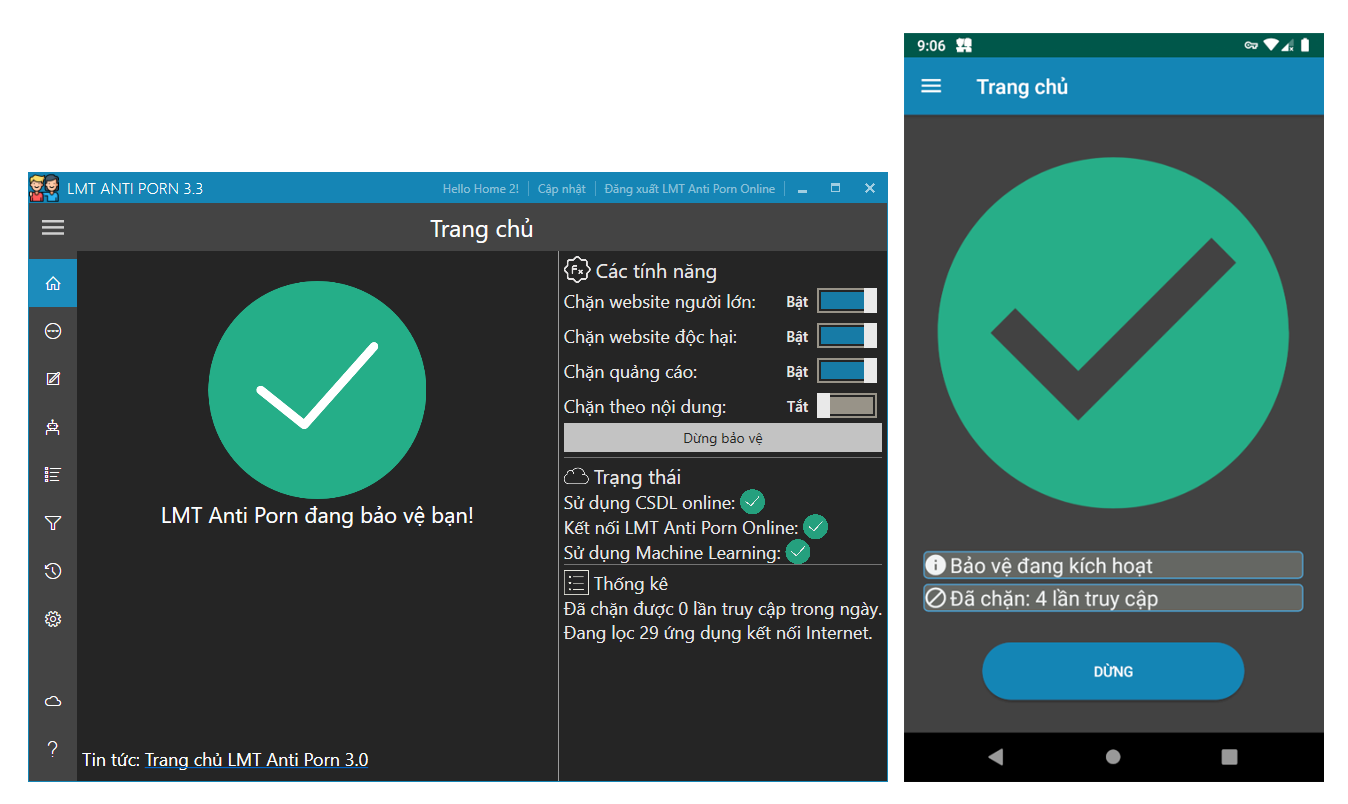
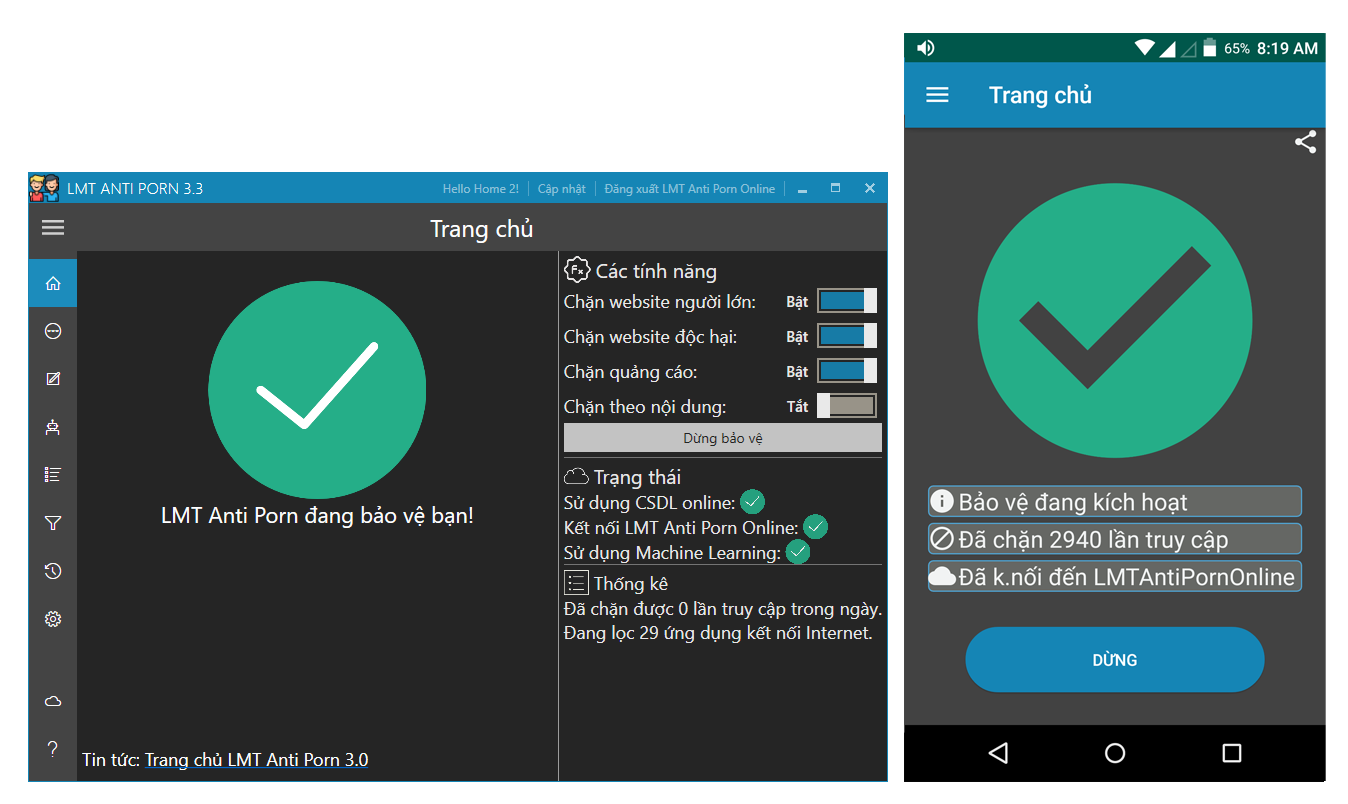
Update to LMT Anti Porn Mobile 1.0

Changed region(s): [[0.6543, 0.0311, 0.997, 0.8706], [0.6543, 0.9017, 0.997, 0.9639]]

diff --git a/lmt-anti-porn/index.html b/lmt-anti-porn/index.html
@@ -77,7 +77,7 @@
                     <div class="space-20"></div>
                     <a href="https://antiporn.azurewebsites.net/fw/b3d3a8aa" class="bttn-white wow fadeInUp" data-wow-delay="0.8s"><i class="lnr lnr-download"></i>Windows ver 3.3</a>
 					 <a href="https://leminhthanh1998.blogspot.com/2019/10/chan-web-en-tren-android-voi-lmt-anti.html" 
-					class="bttn-white wow fadeInUp" data-wow-delay="0.8s"><i class="lnr lnr-download"></i>Android ver 0.2</a>
+					class="bttn-white wow fadeInUp" data-wow-delay="0.8s"><i class="lnr lnr-download"></i>Android ver 1.0</a>
 					<p>Chỉ hỗ trợ từ Windows 8 và Android 5.0 trở lên</p>
                 </div>
             </div>
